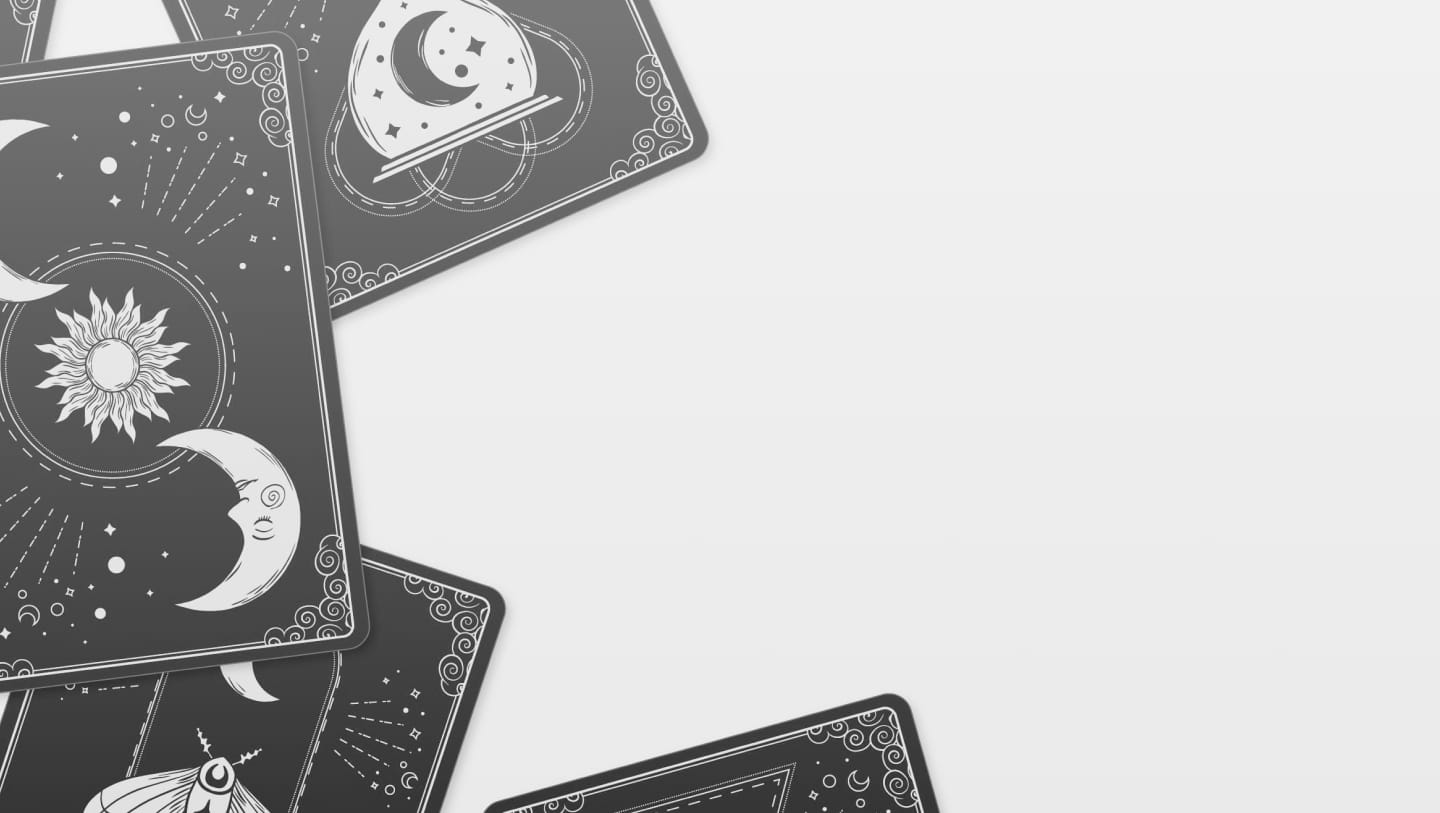
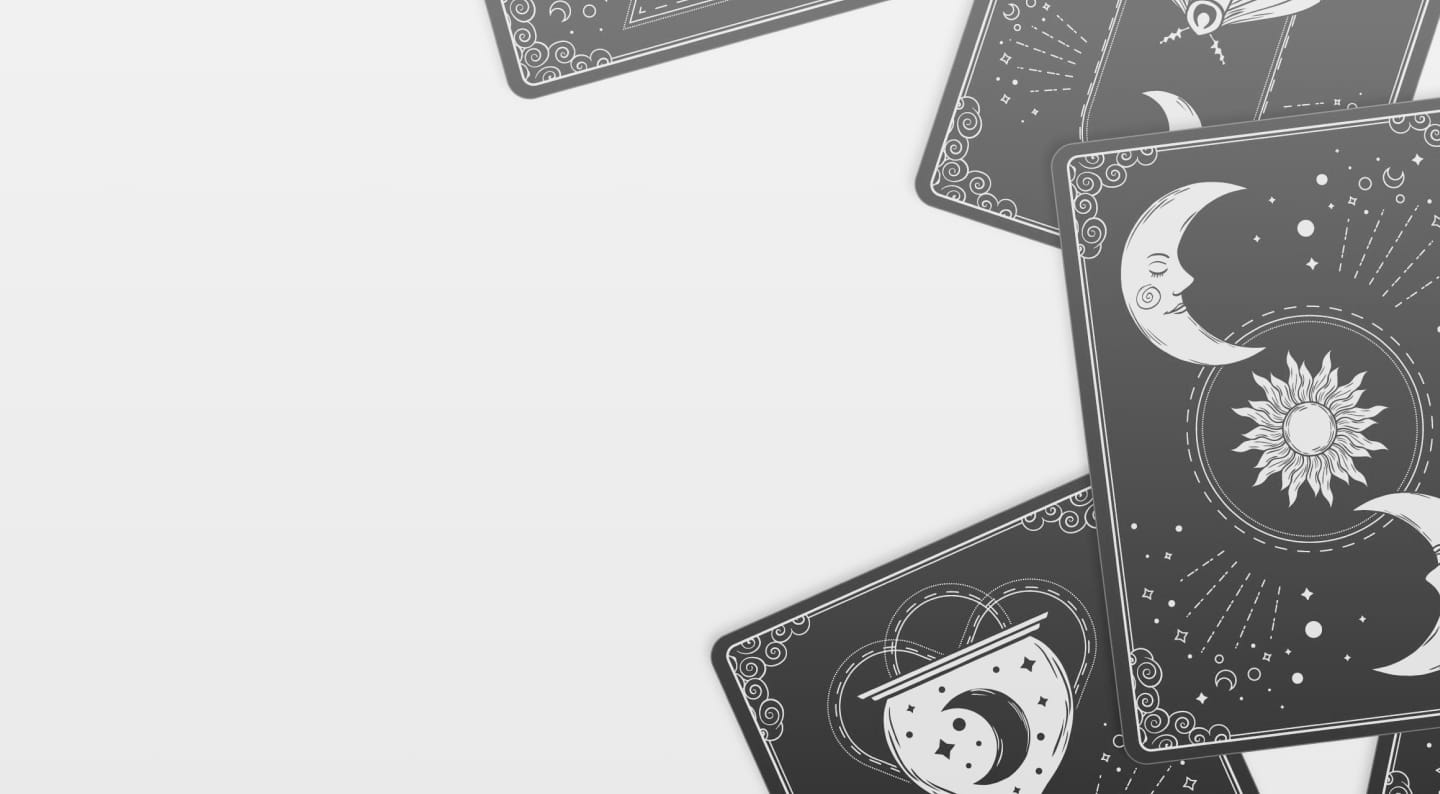
Mobile background images added

diff --git a/src/constants/images.js b/src/constants/images.js
@@ -7,10 +7,12 @@ import whatsapp_icon from "../assets/whatsapp_icon.png";
 import facebook_icon from "../assets/facebook_icon.png";
 import instagram_icon from "../assets/instagram_icon.png";
 import bg_secaoatendimento from "../assets/bg_secaoatendimento.jpg";
+import bg_secaoatendimento_mobile from "../assets/bg_secaoatendimento_mobile.jpg";
 import icone_atendimento_online from "../assets/icone_atendimento_online.png";
 import icone_atendimento_presencial from "../assets/icone_atendimento_presencial.png";
 import velas from "../assets/velas.png";
 import bg_secaotaro from "../assets/bg_secaotaro.jpg";
+import bg_secaotaro_mobile from "../assets/bg_secaotaro_mobile.jpg";
 import reiki from "../assets/reiki.png";
 import cone_chines from "../assets/cone_chines.png";
 import bg_secao_medicinasdafloresta from "../assets/bg_secao_medicinasdafloresta.jpg";
@@ -18,6 +20,7 @@ import ayahuasca from "../assets/ayahuasca.png";
 import tambor_xamanico from "../assets/tambor_xamanico.png";
 import lua from "../assets/lua.png";
 import bg_cerimoniauniversalista from "../assets/bg_cerimoniauniversalista.jpg";
+import bg_cerimoniauniversalista_mobile from "../assets/bg_cerimoniauniversalista_mobile.jpg";
 
 export default {
 	logo,
@@ -29,10 +32,12 @@ export default {
 	facebook_icon,
 	instagram_icon,
 	bg_secaoatendimento,
+	bg_secaoatendimento_mobile,
 	icone_atendimento_online,
 	icone_atendimento_presencial,
 	velas,
 	bg_secaotaro,
+	bg_secaotaro_mobile,
 	reiki,
 	cone_chines,
 	bg_secao_medicinasdafloresta,
@@ -40,4 +45,5 @@ export default {
 	tambor_xamanico,
 	lua,
 	bg_cerimoniauniversalista,
+	bg_cerimoniauniversalista_mobile,
 };

diff --git a/src/container/Taro/Taro.scss b/src/container/Taro/Taro.scss
@@ -1,8 +1,17 @@
 .taro {
 	background-size: cover;
+	background-position: right;
 	background-repeat: no-repeat;
 	background-image: linear-gradient(rgb(103, 80, 214, 09), rgba(7, 3, 28, 0.9)),
 		url("../../assets/bg_secaotaro.jpg");
+
+	@media screen and (max-width: 900px) {
+		background-image: linear-gradient(
+				rgb(103, 80, 214, 09),
+				rgba(7, 3, 28, 0.9)
+			),
+			url("../../assets/bg_secaotaro_mobile.jpg");
+	}
 
 	.taro__container {
 		gap: 4rem;

diff --git a/src/container/CerimoniaUniversalista/CerimoniaUniversalista.scss b/src/container/CerimoniaUniversalista/CerimoniaUniversalista.scss
@@ -9,6 +9,14 @@
 	background-image: linear-gradient(rgb(103, 80, 214, 09), rgba(7, 3, 28, 0.9)),
 		url("../../assets/bg_cerimoniauniversalista.jpg");
 
+	@media screen and (max-width: 900px) {
+		background-image: linear-gradient(
+				rgb(103, 80, 214, 09),
+				rgba(7, 3, 28, 0.9)
+			),
+			url("../../assets/bg_cerimoniauniversalista_mobile.jpg");
+	}
+
 	.cerimonia-universalista__container {
 		display: flex;
 		flex-direction: row;

diff --git a/src/container/Atendimentos/Atendimentos.scss b/src/container/Atendimentos/Atendimentos.scss
@@ -11,9 +11,11 @@
 	padding: 5rem 2rem 0rem !important;
 
 	@media screen and (max-width: 900px) {
-		padding: 4rem 2rem !important;
-		background-image: rgb(197, 189, 255),
-			url("../../assets/bg_secaoatendimento.jpg");
+		background-image: linear-gradient(
+				rgb(232, 230, 255, 0.9),
+				rgb(232, 230, 255, 0.9)
+			),
+			url("../../assets/bg_secaoatendimento_mobile.jpg");
 	}
 
 	img {
